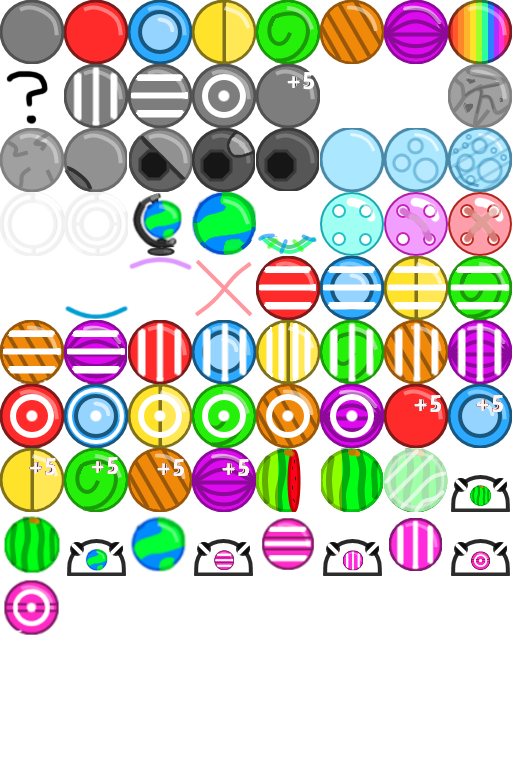
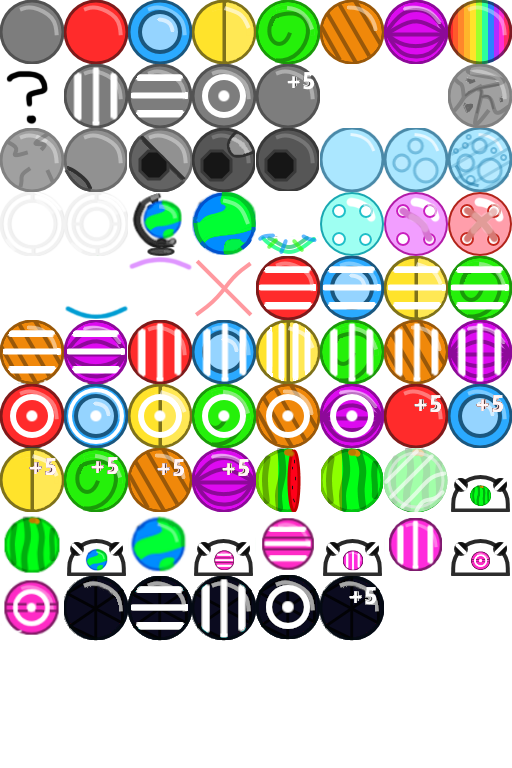
added black circles

Changed region(s): [[0.125, 0.75, 0.75, 0.8438]]

diff --git a/src/conflicts.js b/src/conflicts.js
@@ -1,6 +1,6 @@
 let c = [
     // Layer 0
-    ["**", "*0", "*1", "*2", "*3", "*4", "*5", "*/",
+    ["**", "*0", "*1", "*2", "*3", "*4", "*5", "*B", "*/",
      "M1", "M2", "M3", "M4", "M5", "M6",
      "G1", "G2", "W1", "W2", "W3"],
     // Encasing blockers
@@ -10,6 +10,6 @@ let c = [
     ["B1", "B2", "B3"]
 ]
 
-c.push(c[0].slice(7).concat(["*O","*-","*|","*+"]))
+c.push(c[0].slice(8).concat(["*O","*-","*|","*+"]))
 
 export default c;

diff --git a/src/Tooltips.js b/src/Tooltips.js
@@ -10,6 +10,7 @@ const tooltips = {
         "green circle": "Collect green circles!",
         "blue circle": "Collect blue circles!",
         "purple circle": "Collect purple circles!",
+        "black circle": "Collect black circles!",
         "striped circle": "Collect striped circles!",
         "radial circle": "Collect radial circles!",
         "rainbow circle": "Collect rainbow circles!",

diff --git a/src/tabTiles.js b/src/tabTiles.js
@@ -8,8 +8,8 @@ const tabTiles = {
             tiles: ["--","-O","*S"]
         },
         circles: {
-            name: "Regular Circles",
-            tiles: ["**","*0","*1","*2","*3","*4","*5"]
+            name: "Regular and Black Circles",
+            tiles: ["**","*0","*1","*2","*3","*4","*5","*B"]
         },
         specials: {
             name: "Special Circles",

diff --git a/src/aliasTiles.js b/src/aliasTiles.js
@@ -8,7 +8,7 @@ const at = [
     ["*4*O","*0*O","*5*O","*1*O","*2*O","*3*O","*4*+","*0*+"],
     ["*5*+","*1*+","*2*+","*3*+","W1","W2","W3","CW"],
     ["??CW","CG","??CG","C-","??C-","C|","??C|","CO"],
-    ["??CO"]
+    ["??CO","*B","*B*-","*B*|","*B*O"]
 ]
 
 export default at;

diff --git a/src/names.js b/src/names.js
@@ -7,6 +7,7 @@ const names = {
     "*3": "Purple Circle",
     "*4": "Red Circle",
     "*5": "Yellow Circle",
+    "*B": "Black Circle",
     "*-": "Horizontal Striped Circle",
     "*|": "Vertical Striped Circle",
     "*O": "Radial Circle",
